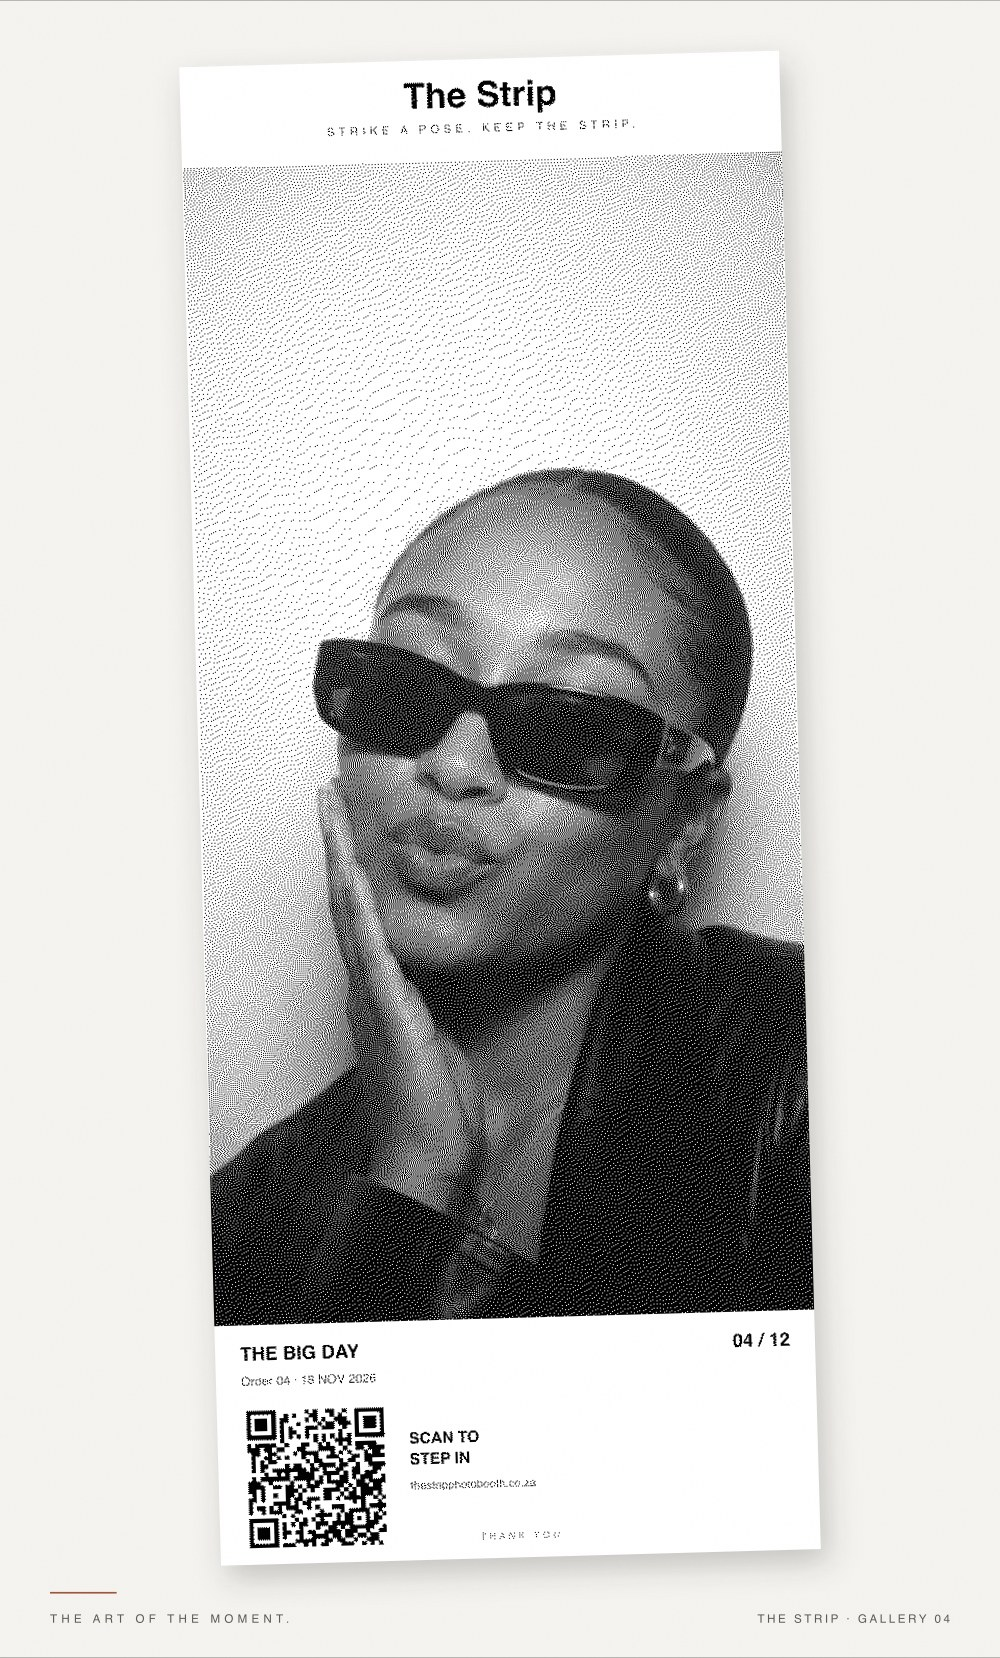
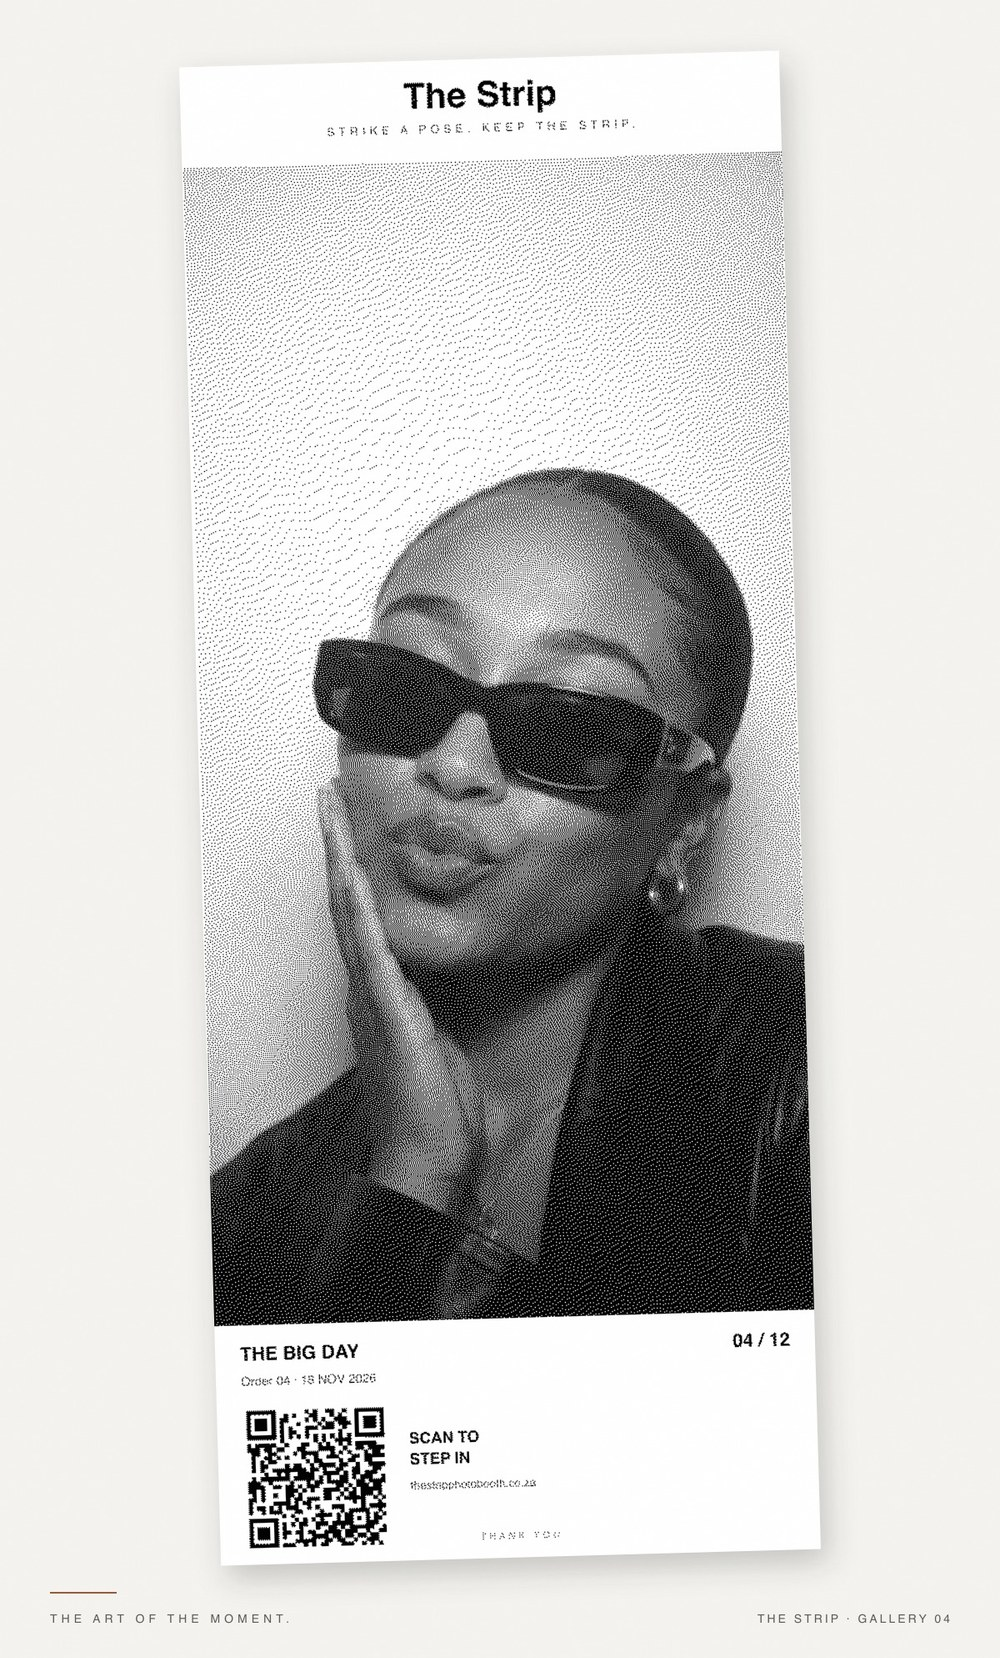
Use branded printed strips on landing page

Changed region(s): [[0.217, 0.2768, 0.806, 0.7998], [0.651, 0.0923, 0.775, 0.1538], [0.775, 0.646, 0.806, 0.6767]]

diff --git a/index.html b/index.html
@@ -35,7 +35,7 @@
 <main id="main">
 
 <section class="gallery" aria-label="Photobooth gallery">
-  <div class="gallery-track" id="track"><div class="portrait"><img src="assets/gallery-01.jpg" alt="Black-and-white booth portrait" loading="eager" decoding="async"></div><div class="portrait"><img src="assets/gallery-02.jpg" alt="A couple sharing a kiss in the booth" loading="eager" decoding="async"></div><div class="portrait"><img src="assets/gallery-03.jpg" alt="Four friends posing together" loading="eager" decoding="async"></div><div class="portrait"><img src="assets/gallery-04.jpg" alt="A guest posing in sunglasses" loading="lazy" decoding="async"></div><div class="portrait"><img src="assets/gallery-05.jpg" alt="A couple posing cheek to cheek" loading="lazy" decoding="async"></div><div class="portrait"><img src="assets/gallery-06.jpg" alt="A couple in front of the booth curtain" loading="lazy" decoding="async"></div><div class="portrait"><img src="assets/gallery-07.jpg" alt="Four friends smiling for the camera" loading="lazy" decoding="async"></div><div class="portrait"><img src="assets/gallery-08.jpg" alt="A couple making playful faces" loading="lazy" decoding="async"></div><div class="portrait"><img src="assets/gallery-09.jpg" alt="Friends posing for a group photo" loading="lazy" decoding="async"></div><div class="portrait"><img src="assets/gallery-10.jpg" alt="A couple sharing a moment" loading="lazy" decoding="async"></div><div class="portrait"><img src="assets/gallery-11.jpg" alt="Five friends in a black-and-white booth photo" loading="lazy" decoding="async"></div><div class="portrait"><img src="assets/gallery-12.jpg" alt="Three friends smiling in the booth" loading="lazy" decoding="async"></div></div>
+  <div class="gallery-track" id="track"><div class="portrait"><img src="assets/gallery-print-sm-01.jpg" alt="Black-and-white booth portrait" loading="eager" decoding="async"></div><div class="portrait"><img src="assets/gallery-print-sm-02.jpg" alt="A couple sharing a kiss in the booth" loading="eager" decoding="async"></div><div class="portrait"><img src="assets/gallery-print-sm-03.jpg" alt="Four friends posing together" loading="eager" decoding="async"></div><div class="portrait"><img src="assets/gallery-print-sm-04.jpg" alt="A guest posing in sunglasses" loading="lazy" decoding="async"></div><div class="portrait"><img src="assets/gallery-print-sm-05.jpg" alt="A couple posing cheek to cheek" loading="lazy" decoding="async"></div><div class="portrait"><img src="assets/gallery-print-sm-06.jpg" alt="A couple in front of the booth curtain" loading="lazy" decoding="async"></div><div class="portrait"><img src="assets/gallery-print-sm-07.jpg" alt="Four friends smiling for the camera" loading="lazy" decoding="async"></div><div class="portrait"><img src="assets/gallery-print-sm-08.jpg" alt="A couple making playful faces" loading="lazy" decoding="async"></div><div class="portrait"><img src="assets/gallery-print-sm-09.jpg" alt="Friends posing for a group photo" loading="lazy" decoding="async"></div><div class="portrait"><img src="assets/gallery-print-sm-10.jpg" alt="A couple sharing a moment" loading="lazy" decoding="async"></div><div class="portrait"><img src="assets/gallery-print-sm-11.jpg" alt="Five friends in a black-and-white booth photo" loading="lazy" decoding="async"></div><div class="portrait"><img src="assets/gallery-print-sm-12.jpg" alt="Three friends smiling in the booth" loading="lazy" decoding="async"></div></div>
   <div class="gallery-tools">
     <span>A LITTLE PRIVACY. A LOT OF PERSONALITY.</span>
     <div>

diff --git a/css/site.css b/css/site.css
@@ -45,8 +45,8 @@ nav a.nav-cta:hover{background:var(--rust);color:var(--paper);text-decoration:no
 /* Home gallery */
 .gallery{overflow:hidden}
 .gallery-track{display:flex;gap:11px;padding:0 11px;transform:translateX(-7vw);width:max-content;will-change:transform}
-.portrait{height:clamp(400px,44vw,650px);width:31vw;flex:none;overflow:hidden;background:var(--placeholder)}
-.portrait img{width:100%;height:100%;object-fit:cover;object-position:center 42%;display:block}
+.portrait{height:clamp(400px,44vw,650px);width:31vw;flex:none;overflow:hidden;background:var(--paper)}
+.portrait img{width:100%;height:100%;object-fit:contain;object-position:center;display:block}
 .gallery-tools{display:flex;align-items:center;justify-content:space-between;padding:18px 3.2%;font-size:10px;letter-spacing:1.5px;color:var(--muted-ink)}
 .gallery-tools>div{display:flex;align-items:center;gap:18px}
 .gallery-tools button{background:none;border:0;font-size:18px;padding:0 4px;color:var(--ink)}

diff --git a/build.py b/build.py
@@ -26,6 +26,7 @@ IMAGES = [
 ]
 
 PRINT_IMAGES = [(f"gallery-print-{i:02d}.jpg", alt) for i, (_, alt) in enumerate(IMAGES, 1)]
+PRINT_IMAGES_SM = [(f"gallery-print-sm-{i:02d}.jpg", alt) for i, (_, alt) in enumerate(IMAGES, 1)]
 
 NAV = [
     ("about.html", "Experience", "about"),
@@ -109,7 +110,7 @@ def layout(slug, title, description, content, active=None, head_extra="", noinde
 def gallery_marquee():
     return "".join(
         f'<div class="portrait"><img src="assets/{name}" alt="{esc(alt)}" loading="{"eager" if i < 3 else "lazy"}" decoding="async"></div>'
-        for i, (name, alt) in enumerate(IMAGES)
+        for i, (name, alt) in enumerate(PRINT_IMAGES_SM)
     )
 
 def gallery_grid():
